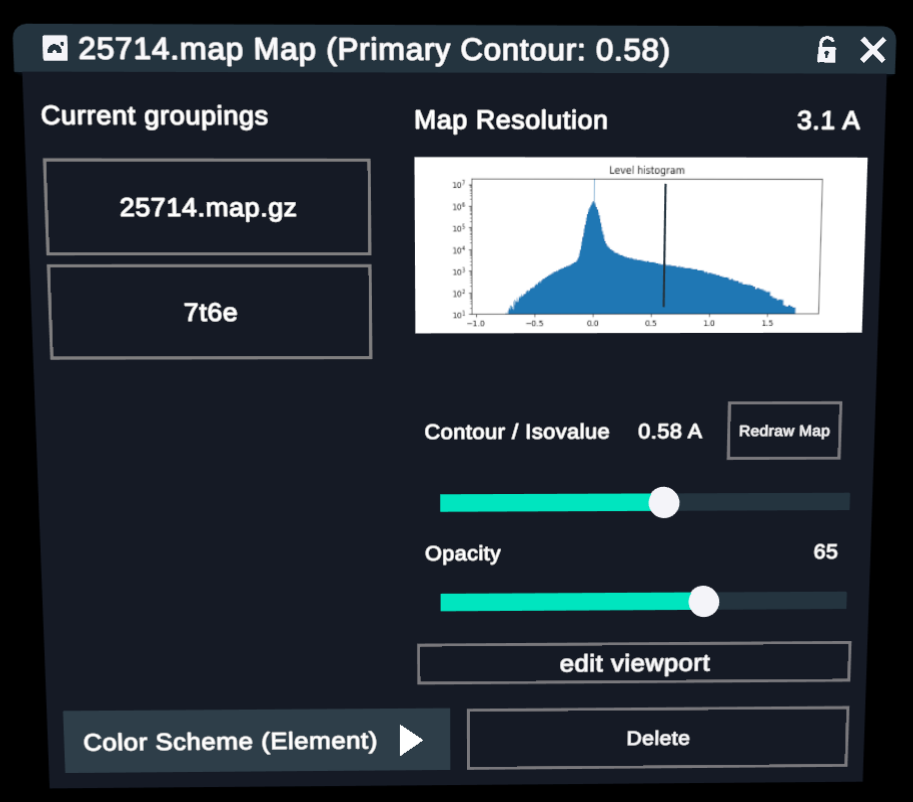
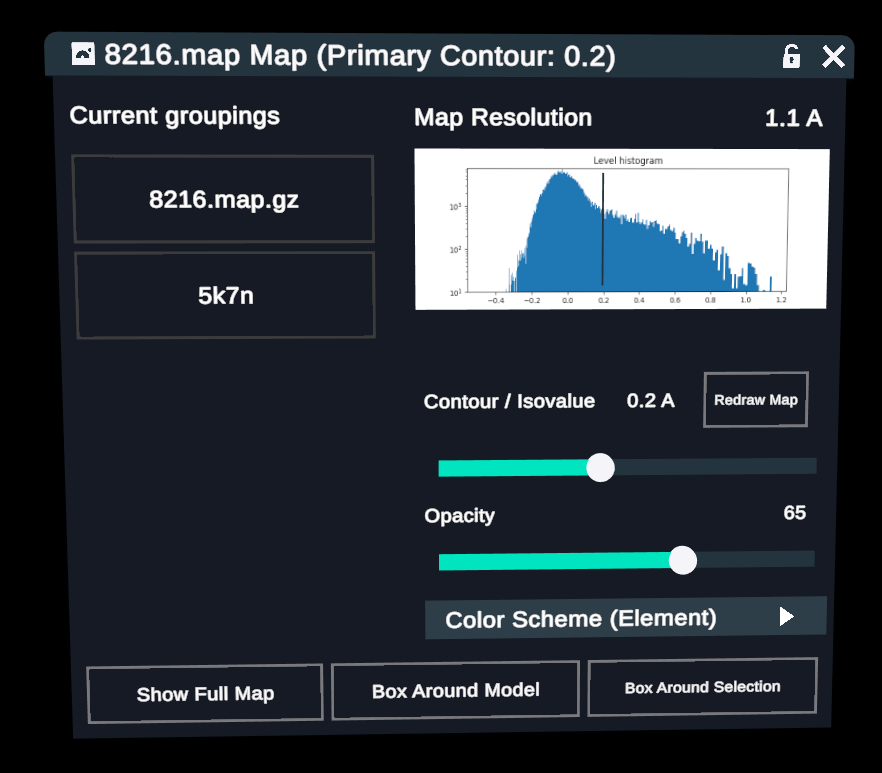
Cryo-EM update (#80)
* Update menu screenshots

* Replace viewport editor with boxing options

diff --git a/docs/plugins/cryoem.md b/docs/plugins/cryoem.md
@@ -4,7 +4,12 @@ title: Cryo-EM
 
 # Cryo-EM
 
-The Cryo-EM plugin allows you to load Cryo-EM maps from the Electron Microscopy Data Bank (EMDB), and align it with it's corresponding model from RCSB database.
+The Cryo-EM plugin allows you to load Cryo-EM maps into Nanome.
+
+There are two ways to load a map into Nanome
+1) Load a map from the Electron Microscopy Data Bank (EMDB), and align it with it's corresponding model from RCSB database.
+
+2) Load Maps and models from your Vault.
 
 ##  Instructions
 
@@ -15,11 +20,20 @@ The Cryo-EM plugin allows you to load Cryo-EM maps from the Electron Microscopy 
 1. Ensure that a MapGroup is selected on the right hand side of the main menu
     - Map groups are used to organize your maps and models. You can have 1 map per Mapgroup, with multiple models.
     - The map group with a green square next to it is the one that the maps/models will be added to in the following steps
-2. Find the EMDB ID for the map you wish to load. Enter the id in the Textbox and press Load
+
+2. Select which method you wish to load the map with
+    #### Load from Vault
+    - The Browse Vault button will open the Vault navigation menu.
+    - Find the maps and models you have already  uploaded, select them, and press Load.
+
+    #### Load from EMDB
+    <vimg src="plugins-page/cryo-em/CryoEMDBMenu.png" />
+    <i>Load from EMDB Menu</i>
+
+    Find the EMDB ID for the map you wish to load. Enter the id in the Textbox and press Load
     - The Browse EMDB button will open EMDB in the web browser
     - Files must be under 500MB. Unfortunately there is no way to tell unless you try loading it.
-
-3. After the Map loads, the RCSB code will be prepopulated in the next Textbox. Load this by pressing load.
+    - After the Map loads, the RCSB code will be prepopulated in the next Textbox. Load this by pressing load.
     - The structure will be added to your workspace, and aligned to the previously loaded map.
 
 ### Edit Map
@@ -41,10 +55,11 @@ Color Options:
 - **BFactor**: Colored according to model BFactor
 - **Chain**: Each chain on the model is given a different color.
 
-#### Viewport Editor
-We provide the ability to use only show a small subset of the loaded map.
+#### Map Boxing Options
+We provide the ability to use only show a subset of the loaded map.
 
-<vimg src="plugins-page/cryo-em/CryoEditViewport.png" />
+There are 3 ways to edit the section of the map rendered.
 
-When you press the Apply Viewport button. A gray sphere will be rendered near your map. This sphere can be moved to cover the section of your map you wish to keep. It can be resized using the viewport radius, with a max size of 50 angstroms. When the sphere is placed where you want, press Apply viewport, and the map should be trimmed to just what is inside of the sphere.
-    
+1. **Show Full Map**: This will render the entire map. This is the default load mode, so its useful for resetting after using other boxing methods.
+2. **Box Around Model**: When a model has been added to the Mapgroup, this will only render the map around the model.
+3. **Box Around Selection**: The map will be rendered around selected atoms on the model. This is useful around larger models, when you only want to see a small subset.
